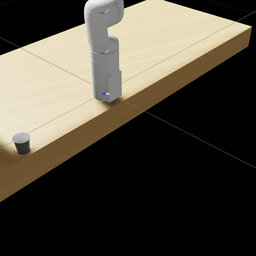
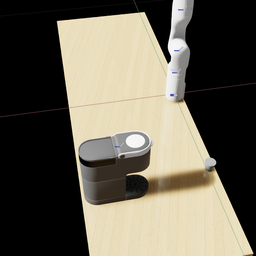
put capsule

diff --git a/robot-exts-control/exts/control/control/kinova/coffee_config.py b/robot-exts-control/exts/control/control/kinova/coffee_config.py
@@ -30,7 +30,7 @@ kinova_action_config = {
             {
                 'action_type': 'move',
                 'duration': 100,
-                'position': [-0.12, 0.0, 0.02],
+                'position': [-0.12, 0.0, 0.03],
                 'orientation': [0.5, 0.5, 0.5, 0.5],
             },
             {
@@ -120,20 +120,26 @@ kinova_action_config = {
             {
                 'action_type': 'move',
                 'duration': 200,
-                'position': [0, -0.3, 0.01],
-                'orientation': [0, 0,0.7071, 0.7071],
+                'position': [0, -0.3, 0.025],
+                'orientation': [0, 0, 0.7071, 0.7071],
             },
             {
                 'action_type': 'move',
-                'duration': 200,
-                'position': [0, -0.2, 0.01],
-                'orientation':  [0, 0,0.7071, 0.7071],
+                'duration': 100,
+                'position': [0, -0.18, 0.025],
+                'orientation':  [0, 0, 0.7071, 0.7071],
             },     
             {
-                'action_type': 'open', #open
+                'action_type': 'close', #open
                 'duration': 100,
-                'ratio': 0.0,
+                'ratio': 0.05,
             },      
+            {
+                'action_type': 'move',
+                'duration': 100,
+                'position': [0, -0.3, 0.025],
+                'orientation': [0, 0, 0.7071, 0.7071],
+            },
         ]
     },
 }

diff --git a/RobotServices/kinova_server.py b/RobotServices/kinova_server.py
@@ -17,6 +17,8 @@ class KinovaUDPHandler(socketserver.BaseRequestHandler):
     there is no connection the client address must be given explicitly
     when sending data back via sendto().
     """
+    def setup(self):
+        self.joint_target = 0.0
 
     def handle(self):
         # obtain message from Isaac Sim
@@ -32,6 +34,7 @@ class KinovaUDPHandler(socketserver.BaseRequestHandler):
             success = "succeed" if self.control_robot(joint_positions) else "failed"
             response = f"The action {success}"
         socket.sendto(response.encode('utf-8'), self.client_address)
+
 
     def process_data(self, data: str):
         """
@@ -52,9 +55,13 @@ class KinovaUDPHandler(socketserver.BaseRequestHandler):
                 success &= angular_action_movement(base, joint_positions[:7])
                 # gripper.Cleanup()
 
-
                 print("go to position", joint_positions[7])
-                success &= GripperCommand(base, min(max(0, joint_positions[7]), 1))
+                joint_target = min(max(0, joint_positions[7]), 1)
+
+                if joint_target != self.joint_target:
+                    self.joint_target = joint_target
+                    success &= GripperCommand(base, joint_target)
+
                 # gripper.Cleanup()
 
                 return success

diff --git a/robot-exts-control/exts/control/control/kinova/coffee_controller.py b/robot-exts-control/exts/control/control/kinova/coffee_controller.py
@@ -144,8 +144,6 @@ class CoffeeMakerController(BaseController):
         # update event
         if len(self.event_pool) > 0:
             if self.event_elapsed <= 0:
-                if self.connect_server:
-                    self.synchronize_robot()
                 event, elapsed, ee_pos, ee_ori, gripper_ratio = self.event_pool.pop(0)
                 print("event, elapsed, ee_pos, ee_ori ", event, elapsed, ee_pos, ee_ori, gripper_ratio)
                 self.update_event(event)
@@ -153,11 +151,15 @@ class CoffeeMakerController(BaseController):
                     self.update_ee_target(ee_pos, ee_ori)
                 elif self.event == "close":
                     self.gripper.set_close_ratio(gripper_ratio)
-                    
+                
+
+                if self.connect_server:
+                    self.synchronize_robot()
+
                 self.event_elapsed = elapsed
         else:
             if self.connect_server:
-                if self.total_event_count % (60 * 5) == 0:
+                if self.total_event_count % (60 * 3) == 0:
                     self.synchronize_robot()
 
         # print("coffee control event", self.event, self.event_elapsed)

diff --git a/robot-exts-control/exts/control/control/extension.py b/robot-exts-control/exts/control/control/extension.py
@@ -227,13 +227,14 @@ class ControlExtension(omni.ext.IExt):
     def debug(self):
         print("debug")
         if self.robot:
-            # self.controller.apply_high_level_action("open_coffee_machine_handle")
-            self.controller.apply_high_level_action("move_capsule_to_coffee_machine")
+            self.controller.apply_high_level_action("open_coffee_machine_handle")
+            # self.controller.apply_high_level_action("move_capsule_to_coffee_machine")
     
     def debug2(self):
         print("debug2")
         if self.robot:
             self.controller.apply_high_level_action("pick_up_capsule")
+            self.controller.apply_high_level_action("move_capsule_to_coffee_machine")
             # self.controller.apply_high_level_action("pick_up_papercup")
             
 
